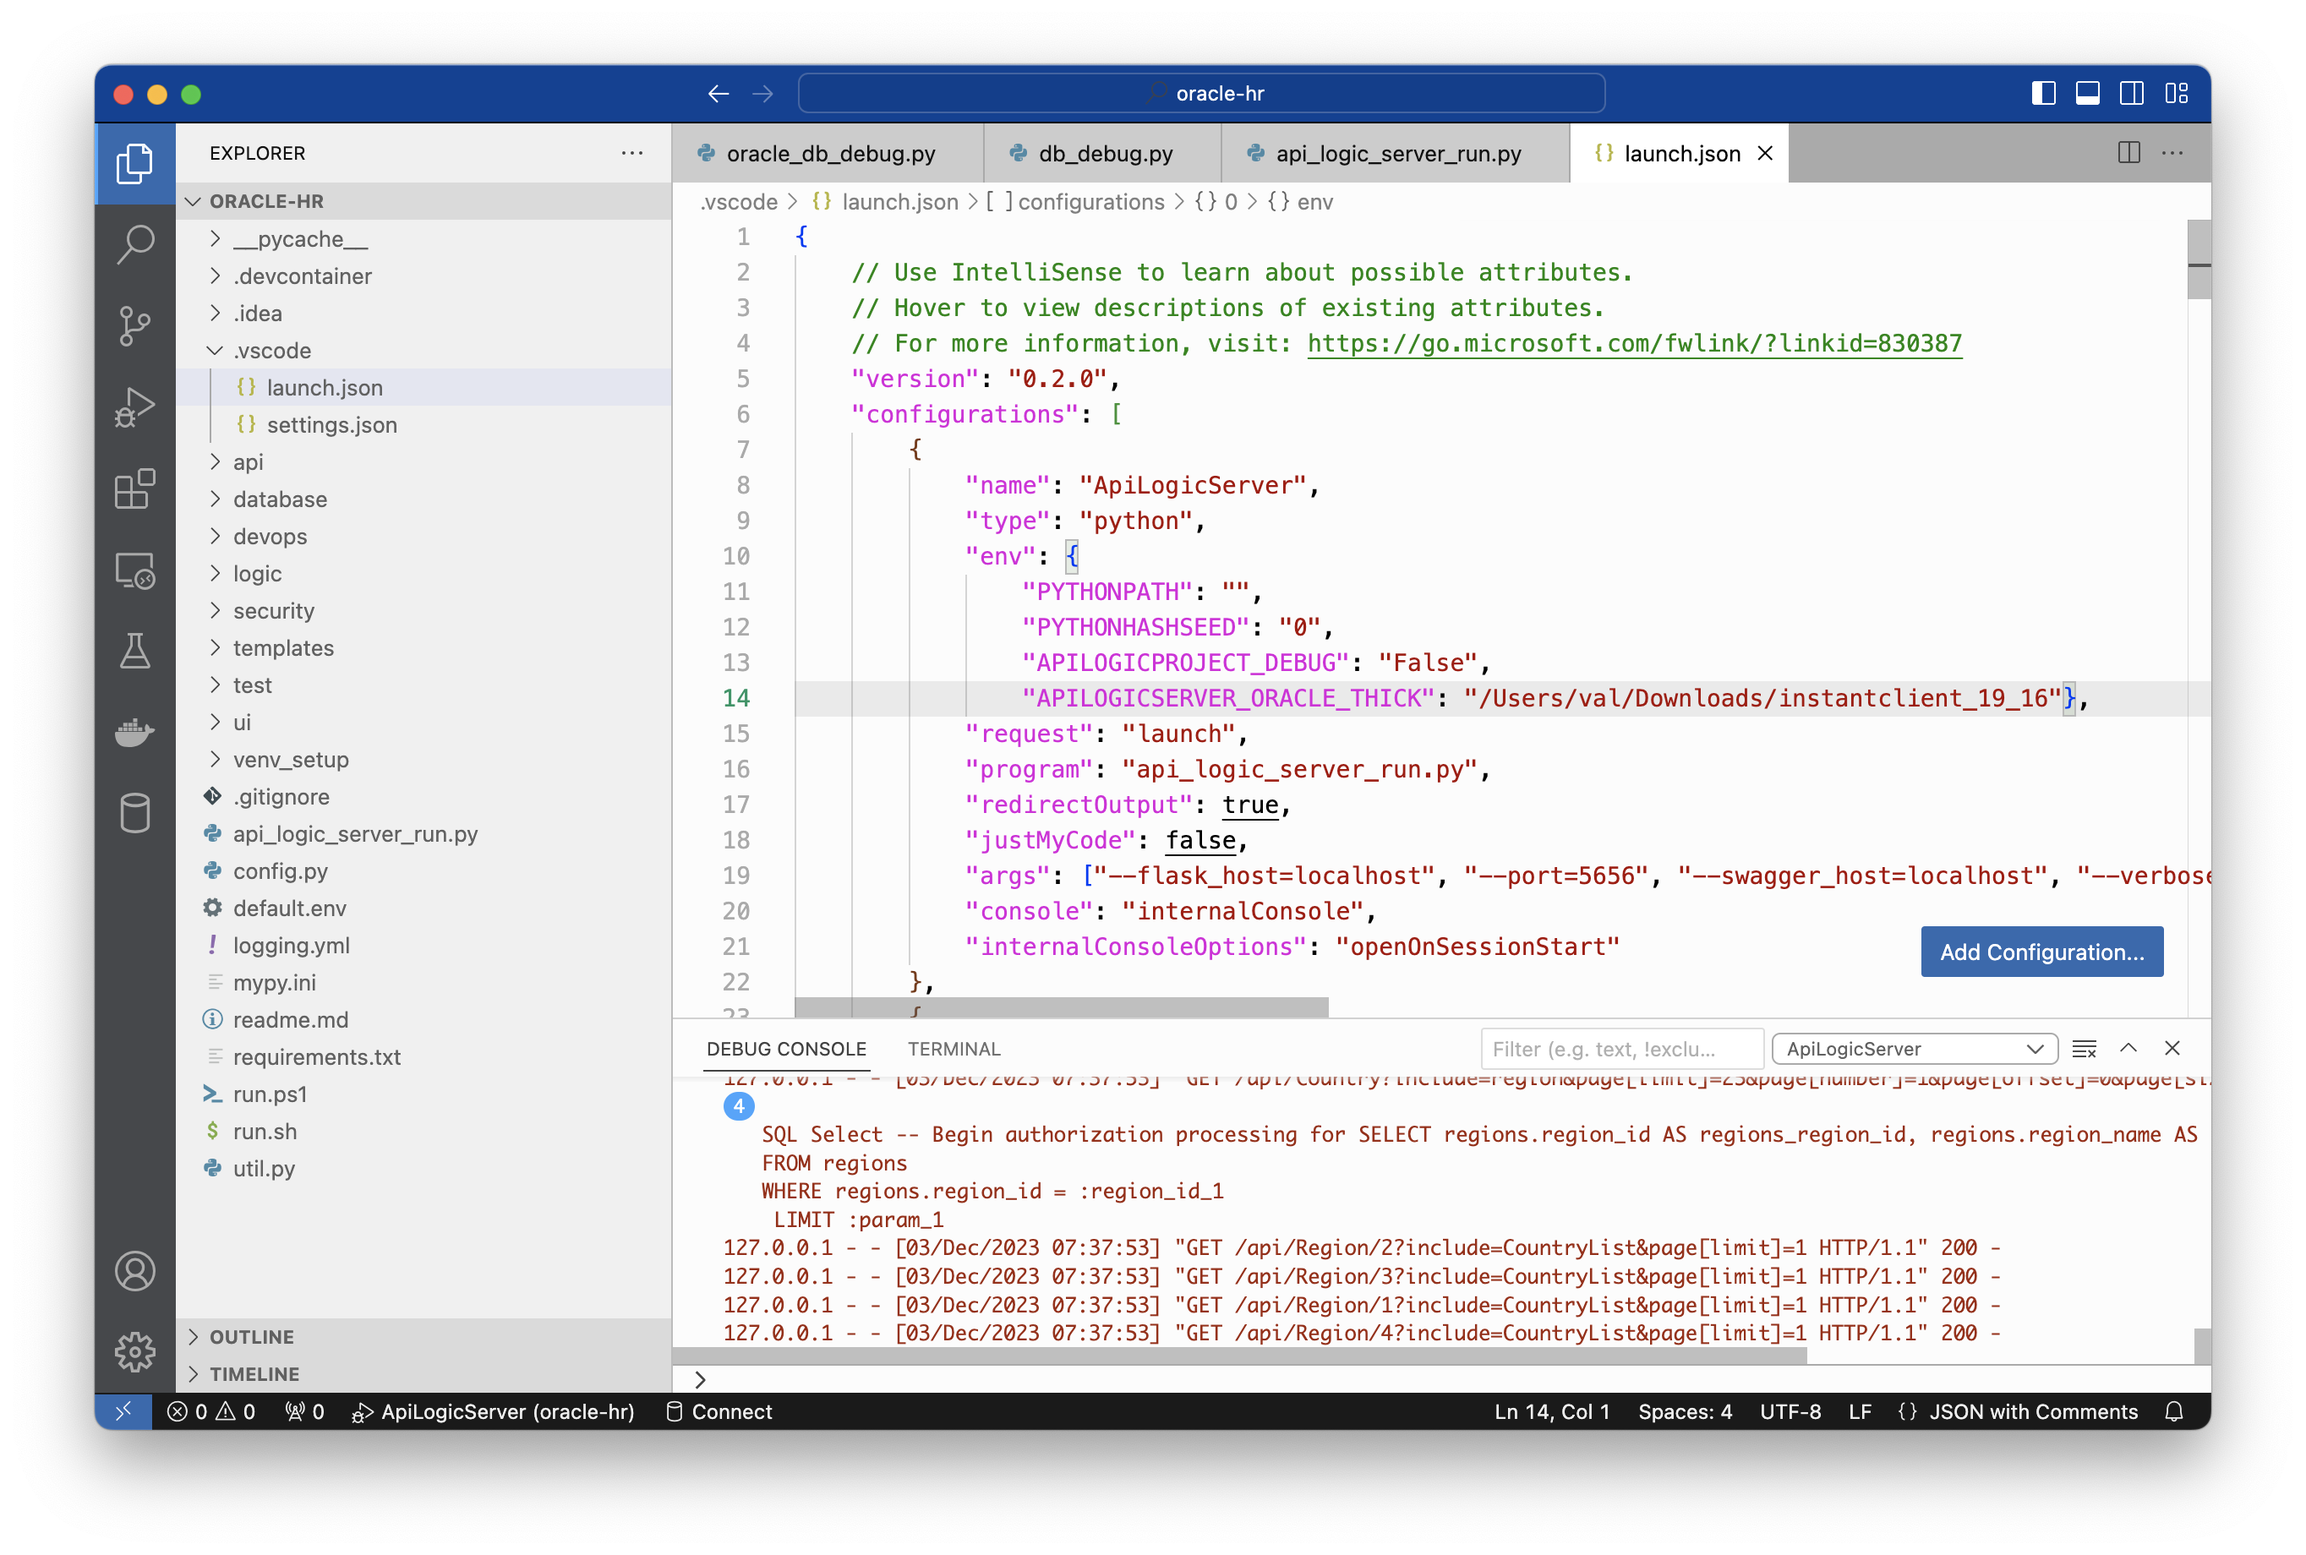
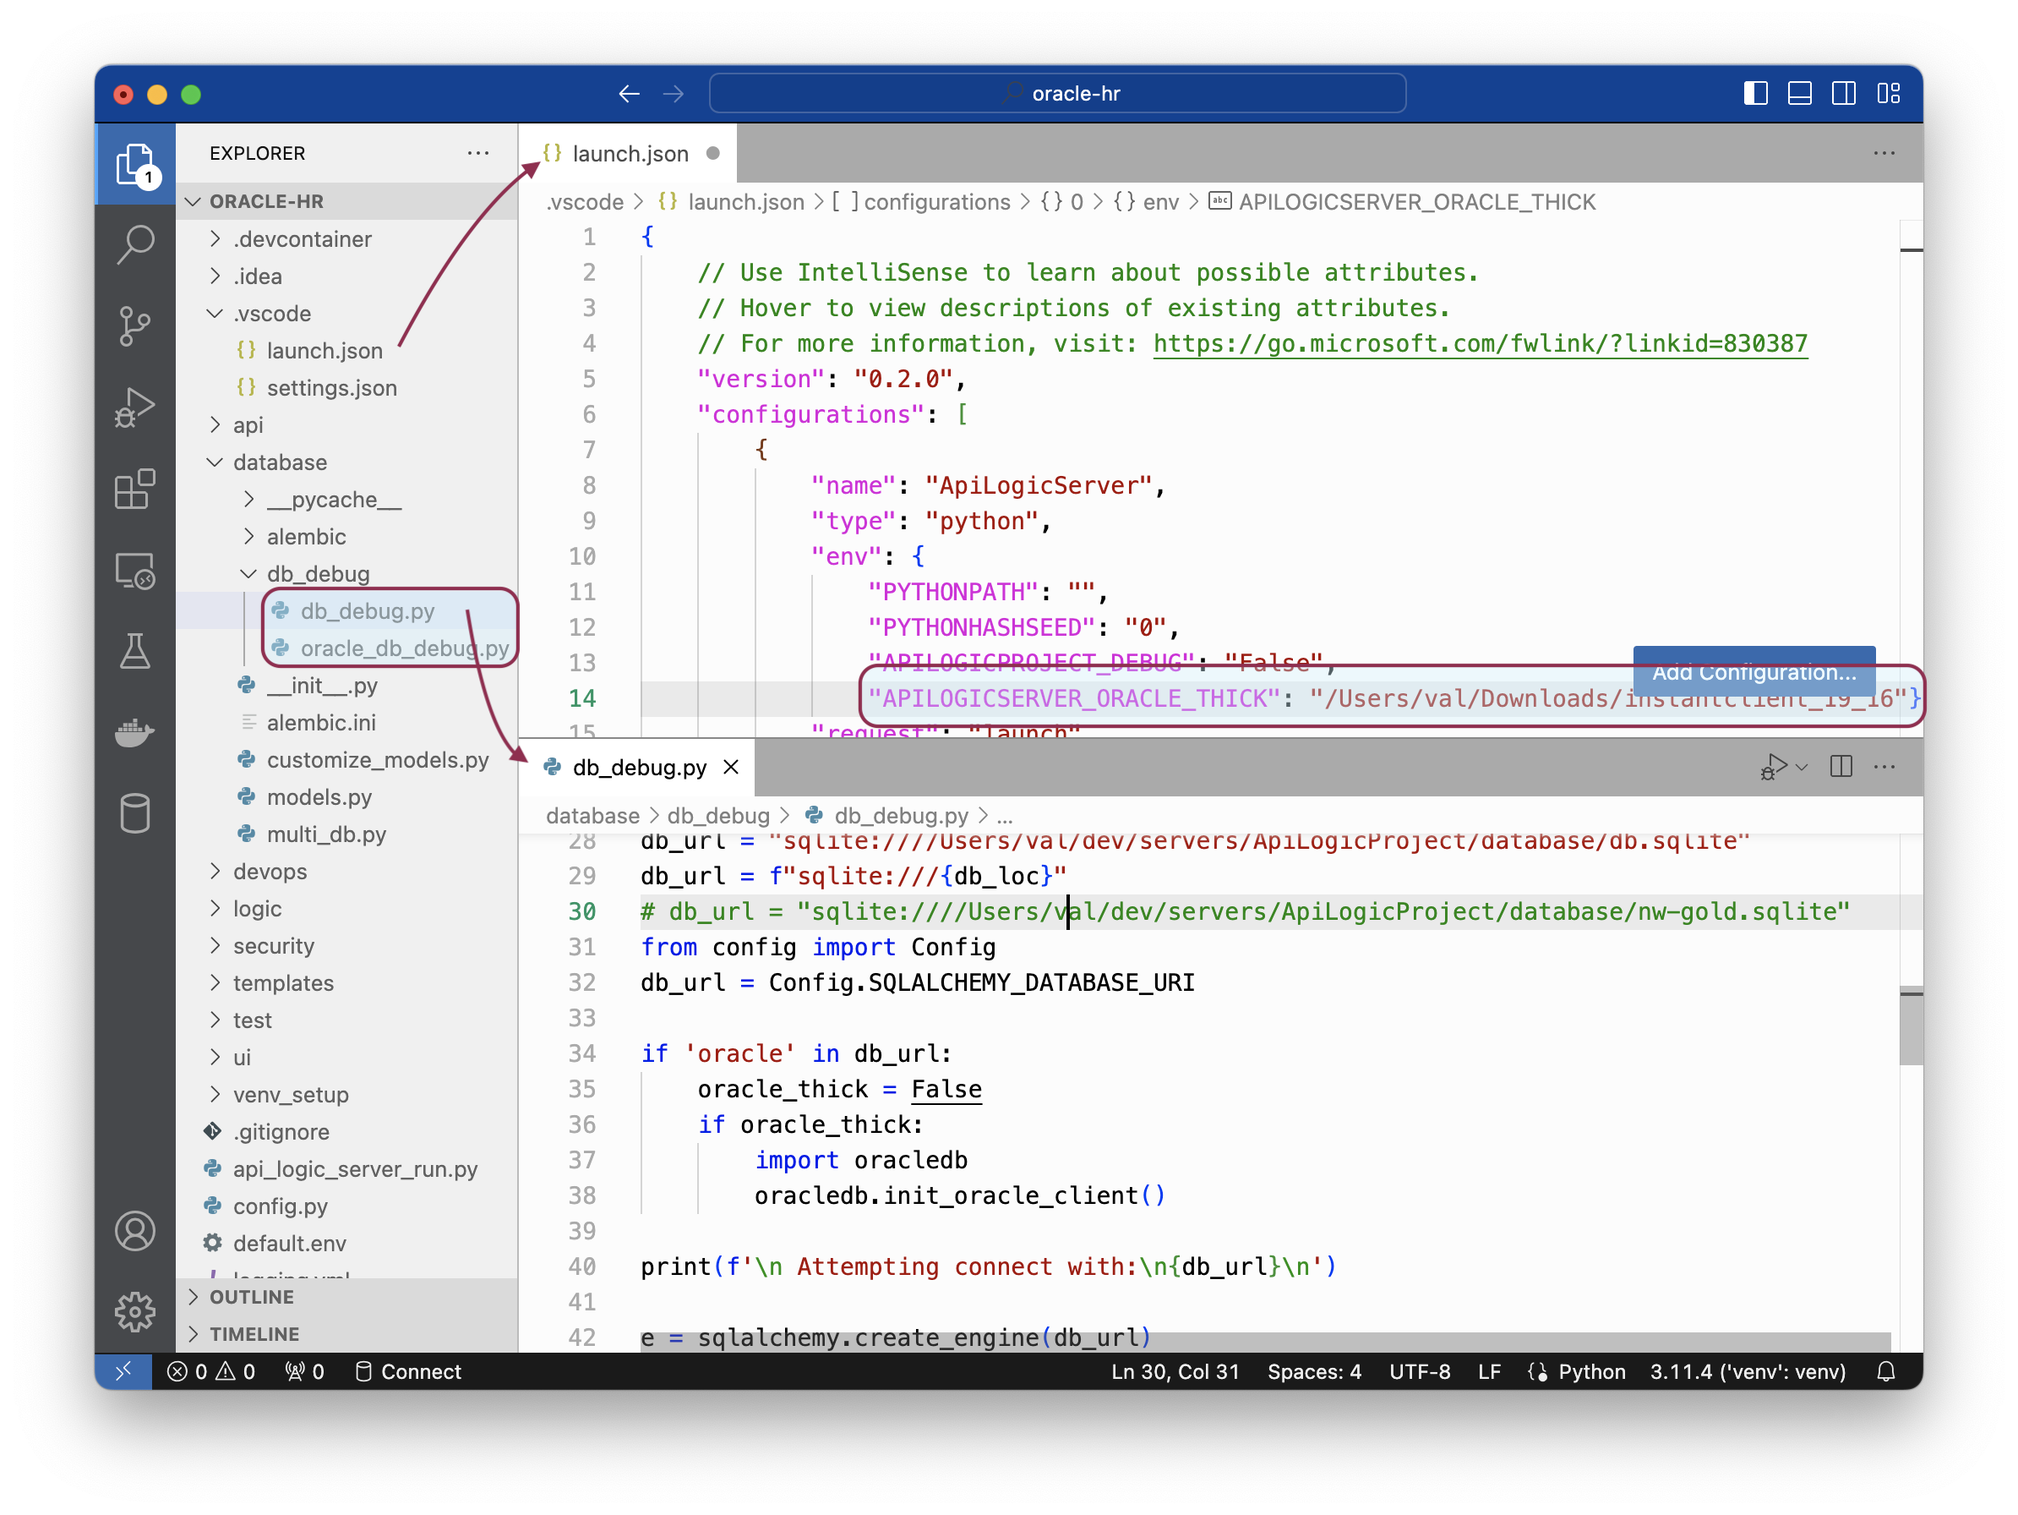
oracle thick, password encryption

Changed region(s): [[0.031, 0.0312, 0.9606, 0.9375], [0.2789, 0.3438, 0.3099, 0.375]]

diff --git a/docs/Install-oracle-thick.md b/docs/Install-oracle-thick.md
@@ -1,0 +1,45 @@
+Oracle support depends upon `pip install oracledb`.  You **do not** need to do this, since it's already installed with API Logic Server.
+
+> For more information on oracle-db, [click here](https://python-oracledb.readthedocs.io/en/latest/user_guide/installation.html#){:target="_blank" rel="noopener"}
+
+This driver operates in *thin* mode and *thick* mode.  In some tightly regulated corporate environments, thin mode fails to connect with network errors, for example:
+
+```
+OSError: [WinError 10038] An operation was attempted on something that is not a socket
+```
+
+or,
+
+```
+Service "xxx" is not registered with the listener 
+```
+
+
+In such cases, you need to use *thick* mode.  This page shows how.
+
+&nbsp;
+
+## Install thick client
+
+Install Oracle thick support as [described here](https://python-oracledb.readthedocs.io/en/latest/user_guide/installation.html#){:target="_blank" rel="noopener"}.  Each os-specific section contains information on installing thick mode, [like this for mac](https://python-oracledb.readthedocs.io/en/latest/user_guide/installation.html#installing-python-oracledb-on-macos){:target="_blank" rel="noopener"}.
+
+Make a note of the install location.  For example, this might install to the following on a mac: `/Users/val/Downloads/instantclient_19_16`.
+
+&nbsp;
+
+## Activate thick client for API Logic Server
+
+When required, thick client must be activated for both creating and running applications.  It operates by setting the environment variable to the thick client install location noted above.  
+
+```
+APILOGICSERVER_ORACLE_THICK=/Users/val/Downloads/instantclient_19_16
+```
+
+> Note: setting environment variables is os-dependent.  Windows, for example, requires you preceed the above with `set`.
+
+To create projects, set the environment variable before you run `ApiLogicServer create`.
+
+You can do the same for running projects.  Or, you can set this in your IDE as shown below.
+
+![Run - Oracle thin](./images/database/oracle-thick.png)
+

diff --git a/docs/Security-Authentication.md b/docs/Security-Authentication.md
@@ -28,8 +28,36 @@ At the top of Swagger, locate the Authenticate button.  Copy the token, precede 
 
 The sample test apps use this token on API calls [as shown here](https://github.com/valhuber/ApiLogicServer/blob/main/api_logic_server_cli/project_prototype_nw/test/api_logic_server_behave/features/steps/place_order.py){:target="_blank" rel="noopener"}.
 
-## Manage Users and Roles
+## Password Encryption with flask_bcrypt
 
-The system creates an Admin App for managing users and roles:
+It is generally not a good idea to store user passwords in plain text.  The Python package flask_bcrypt is included and can be used to generate encrypted passwords. Note: each time you run the encryption - you will get a different value but the check password hash will return true if the plain text matches.
 
-![Manage Authorization](images/security/auth-admin.png)
+```
+from flask_bcrypt import generate_password_hash, check_password_hash
+
+if __name__ == "__main__":
+    pw = input("Enter a password to encrypt: ")
+    pw_hash = generate_password_hash(password=pw)
+    print(f'encrypted password = {pw_hash}')
+    print(f'check_password_hash: {pw} = {check_password_hash(pw_hash=pw_hash, password=pw)}')
+
+Enter a password to encrypt: p
+encrypted password = b'$2b$12$7sBO8jrL7nlgd10/yZ6lqeCV9Jr/itMnu0Zx0bFAqzC3kYQbzB8j.'
+check_password_hash: p = True
+```
+
+Once you have the encrypted password - update your 'User' table password_hash value. 
+SQL for each user:
+```
+update user set password_hash = '$2b$12$7sBO8jrL7nlgd10/yZ6lqeCV9Jr/itMnu0Zx0bFAqzC3kYQbzB8j.' where user.id = 'admin'
+```
+
+Modify the file database/authentication.py to use the encrypted password_hash.
+```
+from flask_bcrypt import generate_password_hash, check_password_hash
+
+    # authentication-provider extension - encrypted password check
+    def check_password(self, plaintext=None):
+        # print(password)
+        return check_password_hash(self.password_hash, plaintext)
+```

diff --git a/docs/Troubleshooting.md b/docs/Troubleshooting.md
@@ -58,6 +58,11 @@ The `db_url` argument is a [SQLAlchemy database uri](https://docs.sqlalchemy.org
 ### Check Connectivity using SQL Tools
 A typical cause is lack of connectivity to the database.  Use your local database tools to verify connectivity from your machine to the database.
 
+### Oracle Connectivity
+You may require [thick mode](./Install-oracle-thick.md).
+
+Also, note that API Logic Server provides 2 diagnostic programs as shown in the link above.
+
 ## Dynamic model import failed
 
 After the database is opened, it is introspected to build `database/models.py`, classes used by SQLAlchemy and the API for database access.  The models file may fail to compile, often due to unexpected names.
